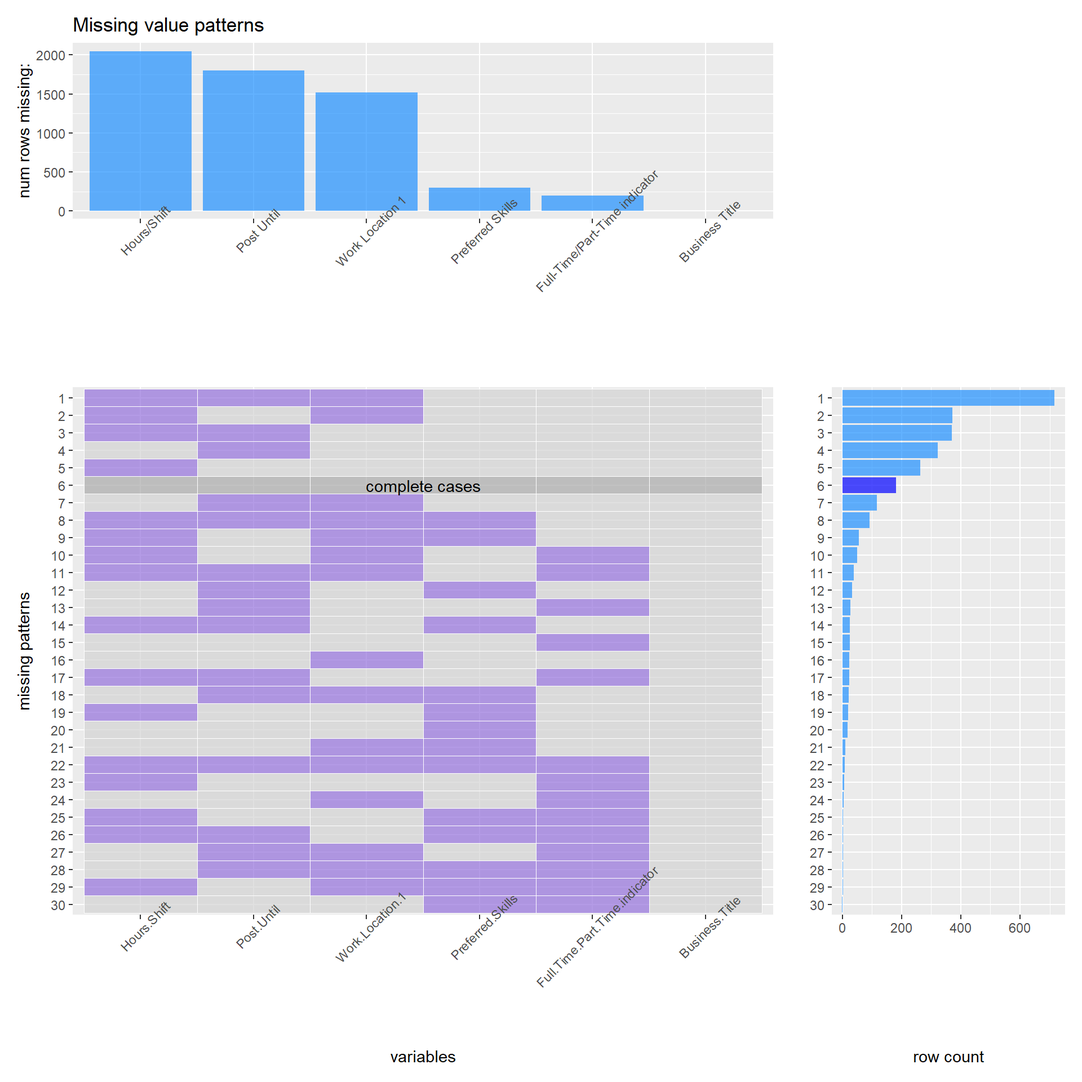
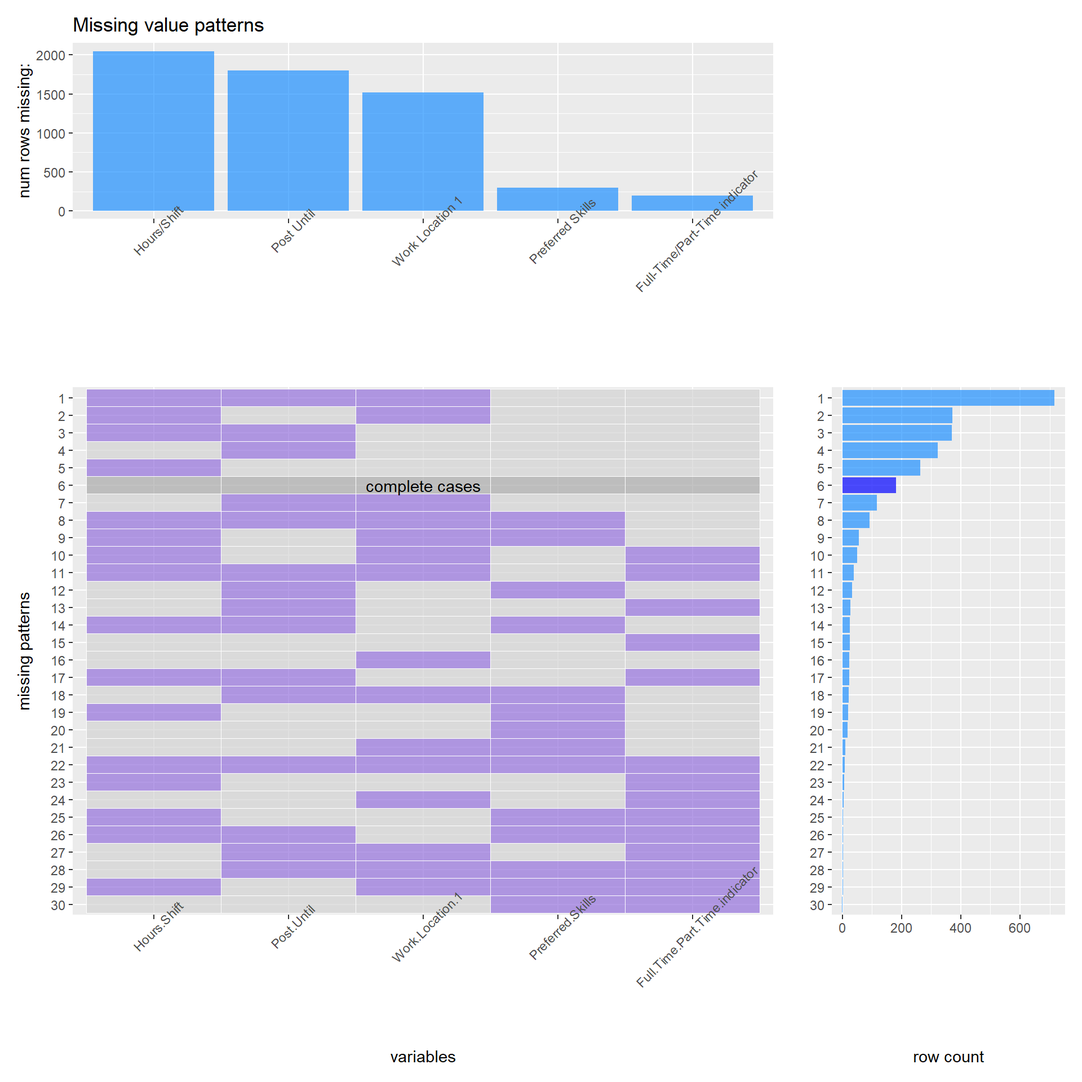
12/13 15:05

diff --git a/docs/results.html b/docs/results.html
@@ -24,7 +24,7 @@
 <meta name="author" content="Yunxiao Wang, Shangzhi Liu" />
 
 
-<meta name="date" content="2021-12-12" />
+<meta name="date" content="2021-12-13" />
 
   <meta name="viewport" content="width=device-width, initial-scale=1" />
   <meta name="apple-mobile-web-app-capable" content="yes" />
@@ -97,8 +97,7 @@
 <li class="chapter" data-level="6.1" data-path="interactive-component.html"><a href="interactive-component.html#d3-interactive-annual-salary-distribution"><i class="fa fa-check"></i><b>6.1</b> D3 interactive Annual Salary Distribution</a></li>
 <li class="chapter" data-level="6.2" data-path="interactive-component.html"><a href="interactive-component.html#prefered-skills-of-engineer"><i class="fa fa-check"></i><b>6.2</b> Prefered skills of Engineer</a></li>
 </ul></li>
-<li class="chapter" data-level="7" data-path="section.html"><a href="section.html"><i class="fa fa-check"></i><b>7</b> <iframe src="https://vizhub.com/wyx34/1f5e5085ddfd4881a6d6e271cca0afca?mode=embed" title="Annual Salary Visualization" height="650" width="800"></iframe></a></li>
-<li class="chapter" data-level="8" data-path="conclusion.html"><a href="conclusion.html"><i class="fa fa-check"></i><b>8</b> Conclusion</a></li>
+<li class="chapter" data-level="7" data-path="conclusion.html"><a href="conclusion.html"><i class="fa fa-check"></i><b>7</b> Conclusion</a></li>
 <li class="divider"></li>
 <li><a href="https://github.com/rstudio/bookdown" target="blank">Published with bookdown</a></li>
 </ul>
@@ -151,14 +150,22 @@
 <p><img src="finalproj_files/figure-html/fig3-1.png" width="960" /></p>
 <p>In this mosaic graph, it shows when career level changes from “entry-level” to “executive” (from low level to high level), the percent of high school diploma requirement become smaller and smaller, and the percent of master’s degree requirement become larger and larger. The percent of Doctorate requirement is very low for all of these career levels. Also, the percents of bachelor degree requirement and associate degree requirement are similar in career levels “entry-level”, “Experienced”, and “Manager”. But in career level “executive”, the percents of both degree requirement are almost 0, almost all degree requirements are from master’s degree and bachelor degree. Adding all these information together, we find higher career level cannot substitute for higher degree level, instead, when job postings’ career level become higher, their degree requirements also become higher and do not need people whose degree is low.</p>
 <p><img src="finalproj_files/figure-html/unnamed-chunk-22-1.png" width="672" /></p>
-<p>In this mosaic graph, we analyze the relationship between degree requirement and posting type &amp; residency requirement.
-1. For all job postings that do not require New York residency requirement: the degree requirement of external posting type is very similar to the degree requirement of internal posting type. The percent of bachelor degree requirement is more than 50% in both of these two posting type, which is the largest. The second largest percent of degree requirement is master’s degree, which is around 33%. The percent of Doctorate requirement is smallest.</p>
-<ol start="2" style="list-style-type: decimal">
-<li>For all job postings that requires New York residency requirement: The percents of Doctorate and master’s degree requirement are similar in both external and internal posting type. However, for job postings whose posting type is external, their percent of bachelor degree requirement is higher , and their percents of associate degree and high school diploma are smaller than those whose posting type is internal.</li>
+<p>In this mosaic graph, we analyze the relationship between degree requirement and posting type &amp; residency requirement.</p>
+<ol style="list-style-type: decimal">
+<li><p>For all job postings that do not require New York residency requirement: the degree requirement of external posting type is very similar to the degree requirement of internal posting type. The percent of bachelor degree requirement is more than 50% in both of these two posting type, which is the largest. The second largest percent of degree requirement is master’s degree, which is around 33%. The percent of Doctorate requirement is smallest.</p></li>
+<li><p>For all job postings that requires New York residency requirement: The percents of Doctorate and master’s degree requirement are similar in both external and internal posting type. However, for job postings whose posting type is external, their percent of bachelor degree requirement is higher , and their percents of associate degree and high school diploma are smaller than those whose posting type is internal.</p></li>
+<li><p>For all external job postings: we can find the percents of master’s degree and Doctorate degree requirement in “not required” are greater than those in “required”. This shows the external job postings that do not need New York residency have higher requirements for high-end degrees than external job postings that need New York residency.</p></li>
+<li><p>Similar for internal job postings, the internal job postings that do not need New York residency have higher requirements for high-end degrees than internal job postings that need New York residency.</p></li>
 </ol>
 </div>
 <div id="title-classification" class="section level2" number="5.5">
 <h2><span class="header-section-number">5.5</span> Title Classification</h2>
+<p>All NYC job positions have 4 job classes: competitive, non-competitive, exempt and labor.
+Competitive means these positions require examination.
+Exempt means competitive or non-competitive examinations or other qualification requirements are not practical.
+Labor Positions are positions is mainly engaged in unskilled manual labor, like cleaner and driver.
+Non-Competitive Positions are positions that are not in the exempt class or the labor class and examination has been determined to not be practicable.
+Is there any difference in salary between each class?</p>
 <p><img src="finalproj_files/figure-html/unnamed-chunk-24-1.png" width="672" /></p>
 <p>In this ridgeline plots of “salary range from”, one for each kind of “Title Classification”, it shows us how the number of job postings of each title classification changes with the lower bound of salary range. We can find that for job postings whose title classifications are “Competitive-1”, “Pending Classification-2”, “Exempt-4”, and “Non-competitive-5”, their low bound of salary range are concentrated around 50000 dollar. However, for job postings whose title classification is “Labor-3”, most of it low bound salary range is less than 50000 dollar.</p>
 </div>
@@ -167,7 +174,6 @@
 <p>Except the New York residency requirement, these job postings have another restriction variable “Posting Type” whose meaning is internal or external job posting. And the dataset claims that internal postings available to city employees and external postings available to the general public are included. To find more information about internal and external, we create a scatter plot to show the relationship between job category and this posting type.</p>
 <p><img src="finalproj_files/figure-html/unnamed-chunk-25-1.png" width="672" /></p>
 <p>In this graph, for each job category, we set some categories are more “external” if its number of external job postings is greater than the number of internal job postings times 0.8, some categories are more “internal” if its number of external job postings is less than the number of internal job postings times 0.6, and else categories are “neutral”.
-Reason:
 From the graph, we can find for job categories “Clerical”, “Social”, and “Administration”, these categories are more “internal”. For job categories “Information”, “Policy”, “Public”, “Legal”, and “Constituent Services”, they are more “external”. Other categories are “neutral”.</p>
 </div>
 <div id="word-cloud-for-preferred-skills" class="section level2" number="5.7">
@@ -176,6 +182,7 @@ From the graph, we can find for job categories “Clerical”, “Social”, and
 100 most frequent words.</p>
 <div id="htmlwidget-38373ad7f96e7472f621" style="width:672px;height:480px;" class="wordcloud2 html-widget"></div>
 <script type="application/json" data-for="htmlwidget-38373ad7f96e7472f621">{"x":{"word":["experience","skills","ability","knowledge","strong","excellent","management","communication","written","microsoft","data","excel","including","preferred","project","proficiency","writing","organizational","interpersonal","development","word","analytical","verbal","demonstrated","office","multiple","team","design","public","systems","york","familiarity","city","projects","computer","oral","related","environment","candidates","software","deadlines","research","manage","independently","information","detail","professional","service","complex","00c2","technical","candidate","analysis","time","effectively","powerpoint","business","field","system","required","planning","attention","ms","sql","degree","security","possess","issues","solving","people","applications","construction","services","understanding","tools","staff","license","proven","access","government","meet","financial","communications","reports","managing","policy","communicate","proficient","tasks","relationships"],"freq":[4720,4221,3212,1957,1953,1656,1616,1519,1195,1051,1042,916,900,826,793,739,735,727,698,686,684,673,667,663,663,662,651,631,625,582,574,569,565,555,538,536,534,523,522,505,497,481,477,464,460,459,458,457,450,448,446,442,432,426,414,409,397,396,386,378,367,361,361,360,359,356,354,352,348,344,338,338,336,335,332,322,318,317,315,309,301,293,288,288,284,282,271,271,269,265],"fontFamily":"Segoe UI","fontWeight":"bold","color":"random-dark","minSize":0,"weightFactor":0.076271186440678,"backgroundColor":"white","gridSize":0,"minRotation":-0.785398163397448,"maxRotation":0.785398163397448,"shuffle":true,"rotateRatio":0.4,"shape":"circle","ellipticity":0.65,"figBase64":null,"hover":null},"evals":[],"jsHooks":{"render":[{"code":"function(el,x){\n                        console.log(123);\n                        if(!iii){\n                          window.location.reload();\n                          iii = False;\n\n                        }\n  }","data":null}]}}</script>
+<p>There are many information we can extract from above wordcloud. For example, we can see that’Data’,‘Microsoft’,‘excel’ appear around 1000 times, and ‘team’,‘project’, ‘manage’ appear more than 500 times. This may indicate most employer expect the job seeker are familar with microsoft office and have basic data analysis ability. What’s more, experience with team project may also be a bonus for job seeker.</p>
 
 </div>
 </div>

diff --git a/docs/interactive-component.html b/docs/interactive-component.html
@@ -24,7 +24,7 @@
 <meta name="author" content="Yunxiao Wang, Shangzhi Liu" />
 
 
-<meta name="date" content="2021-12-12" />
+<meta name="date" content="2021-12-13" />
 
   <meta name="viewport" content="width=device-width, initial-scale=1" />
   <meta name="apple-mobile-web-app-capable" content="yes" />
@@ -32,7 +32,7 @@
   
   
 <link rel="prev" href="results.html"/>
-<link rel="next" href="section.html"/>
+<link rel="next" href="conclusion.html"/>
 <script src="libs/header-attrs-2.11/header-attrs.js"></script>
 <script src="libs/jquery-3.6.0/jquery-3.6.0.min.js"></script>
 <script src="https://cdn.jsdelivr.net/npm/fuse.js@6.4.6/dist/fuse.min.js"></script>
@@ -97,8 +97,7 @@
 <li class="chapter" data-level="6.1" data-path="interactive-component.html"><a href="interactive-component.html#d3-interactive-annual-salary-distribution"><i class="fa fa-check"></i><b>6.1</b> D3 interactive Annual Salary Distribution</a></li>
 <li class="chapter" data-level="6.2" data-path="interactive-component.html"><a href="interactive-component.html#prefered-skills-of-engineer"><i class="fa fa-check"></i><b>6.2</b> Prefered skills of Engineer</a></li>
 </ul></li>
-<li class="chapter" data-level="7" data-path="section.html"><a href="section.html"><i class="fa fa-check"></i><b>7</b> <iframe src="https://vizhub.com/wyx34/1f5e5085ddfd4881a6d6e271cca0afca?mode=embed" title="Annual Salary Visualization" height="650" width="800"></iframe></a></li>
-<li class="chapter" data-level="8" data-path="conclusion.html"><a href="conclusion.html"><i class="fa fa-check"></i><b>8</b> Conclusion</a></li>
+<li class="chapter" data-level="7" data-path="conclusion.html"><a href="conclusion.html"><i class="fa fa-check"></i><b>7</b> Conclusion</a></li>
 <li class="divider"></li>
 <li><a href="https://github.com/rstudio/bookdown" target="blank">Published with bookdown</a></li>
 </ul>
@@ -124,8 +123,8 @@
 <h2><span class="header-section-number">6.1</span> D3 interactive Annual Salary Distribution</h2>
 <p>Click the button at the bottom to select the job category or view all you are interested in.
 If you want to know the specific quantity, you can hover the mouse on each bar.</p>
-<p>The embed version may compress the y axis length.
-For Standalone version, Please click : <a href="Interactive-annual-salary.html">Interactive-annual-salary.html</a></p>
+<p>The embed version compress the y-axis length.
+To view original standalone version, Please click : <a href="Interactive-annual-salary.html">Interactive-annual-salary.html</a></p>
 <script src="https://d3js.org/d3.v6.min.js"></script>
 <iframe src="https://vizhub.com/wyx34/1f5e5085ddfd4881a6d6e271cca0afca?mode=embed" title="Annual Salary Visualization" height="650" width="800">
 </iframe>
@@ -150,10 +149,7 @@ If you want to know the specific quantity, you can hover the mouse on each word.
 ## # ... with 77 more rows</code></pre>
 <div id="htmlwidget-4fa42137bbd0349aaf24" style="width:672px;height:480px;" class="wordcloud2 html-widget"></div>
 <script type="application/json" data-for="htmlwidget-4fa42137bbd0349aaf24">{"x":{"word":["experience","ability","design","knowledge","construction","strong","management","communication","project","excellent","written","york","engineering","projects","candidates","preferred","software","microsoft","office","including","license","technical","excel","verbal","standards","writing","proficiency","planning","demonstrated","multiple","analysis","related","valid","time","organizational","autocad","contract","plans","development","word","candidate","field","applications","computer","effectively","drawings","public","systems","city","powerpoint","requirements","specifications","complex","suite","interpersonal","professional","familiarity","possess","proficient","reports","facilities","manage","practices","water","data","review","required","building","code","issues","deadlines","preference","urban","leadership","analytical","motor","staff","drivera","electrical","meet","structural","application","environment","operations","shop","site","team"],"freq":[640,403,358,306,262,256,241,231,204,200,175,162,152,150,146,139,138,133,132,128,123,121,120,119,117,110,105,102,100,100,99,97,96,92,91,88,88,84,82,81,80,80,79,79,78,75,73,73,72,72,72,72,71,71,70,70,68,68,68,65,64,63,63,63,62,62,61,60,60,60,59,59,58,57,56,54,54,51,51,51,50,49,49,47,47,47,47],"fontFamily":"Segoe UI","fontWeight":"bold","color":"random-dark","minSize":0,"weightFactor":0.5625,"backgroundColor":"white","gridSize":0,"minRotation":-0.785398163397448,"maxRotation":0.785398163397448,"shuffle":true,"rotateRatio":0.4,"shape":"circle","ellipticity":0.65,"figBase64":null,"hover":null},"evals":[],"jsHooks":{"render":[{"code":"function(el,x){\n                        console.log(123);\n                        if(!iii){\n                          window.location.reload();\n                          iii = False;\n\n                        }\n  }","data":null}]}}</script>
-<p>&lt;&lt;&lt;&lt;&lt;&lt;&lt; HEAD
-##</p>
-<p>Standalone version: <a href="Interactive-annual-salary.html">Interactive-annual-salary.html</a></p>
-<script src="https://d3js.org/d3.v6.min.js"></script>
+
 </div>
 </div>
             </section>
@@ -162,7 +158,7 @@ If you want to know the specific quantity, you can hover the mouse on each word.
         </div>
       </div>
 <a href="results.html" class="navigation navigation-prev " aria-label="Previous page"><i class="fa fa-angle-left"></i></a>
-<a href="section.html" class="navigation navigation-next " aria-label="Next page"><i class="fa fa-angle-right"></i></a>
+<a href="conclusion.html" class="navigation navigation-next " aria-label="Next page"><i class="fa fa-angle-right"></i></a>
     </div>
   </div>
 <script src="libs/gitbook-2.6.7/js/app.min.js"></script>

diff --git a/docs/index.html b/docs/index.html
@@ -24,7 +24,7 @@
 <meta name="author" content="Yunxiao Wang, Shangzhi Liu" />
 
 
-<meta name="date" content="2021-12-12" />
+<meta name="date" content="2021-12-13" />
 
   <meta name="viewport" content="width=device-width, initial-scale=1" />
   <meta name="apple-mobile-web-app-capable" content="yes" />
@@ -97,8 +97,7 @@
 <li class="chapter" data-level="6.1" data-path="interactive-component.html"><a href="interactive-component.html#d3-interactive-annual-salary-distribution"><i class="fa fa-check"></i><b>6.1</b> D3 interactive Annual Salary Distribution</a></li>
 <li class="chapter" data-level="6.2" data-path="interactive-component.html"><a href="interactive-component.html#prefered-skills-of-engineer"><i class="fa fa-check"></i><b>6.2</b> Prefered skills of Engineer</a></li>
 </ul></li>
-<li class="chapter" data-level="7" data-path="section.html"><a href="section.html"><i class="fa fa-check"></i><b>7</b> <iframe src="https://vizhub.com/wyx34/1f5e5085ddfd4881a6d6e271cca0afca?mode=embed" title="Annual Salary Visualization" height="650" width="800"></iframe></a></li>
-<li class="chapter" data-level="8" data-path="conclusion.html"><a href="conclusion.html"><i class="fa fa-check"></i><b>8</b> Conclusion</a></li>
+<li class="chapter" data-level="7" data-path="conclusion.html"><a href="conclusion.html"><i class="fa fa-check"></i><b>7</b> Conclusion</a></li>
 <li class="divider"></li>
 <li><a href="https://github.com/rstudio/bookdown" target="blank">Published with bookdown</a></li>
 </ul>
@@ -121,13 +120,13 @@
 <div id="header">
 <h1 class="title">NYC Job Analysis</h1>
 <p class="author"><em>Yunxiao Wang, Shangzhi Liu</em></p>
-<p class="date"><em>2021-12-12</em></p>
+<p class="date"><em>2021-12-13</em></p>
 </div>
 <div id="introduction" class="section level1" number="1">
 <h1><span class="header-section-number">Chapter 1</span> Introduction</h1>
 <p>This project is created by Yunxiao Wang and Shangzhi Liu in Final Project Group 39.</p>
 <p>As graduate students, besides finishing our studies, finding a suitable job is also one of the most important things for us. Especially in New York, a bustling international city, there are opportunities everywhere. Many companies have openings and are eager to hire competent people.</p>
-<p>However, although there are many job postings, it is always a problem for job seekers to find the most suitable job for them from all the information of these job postings. Therefore, our group chose the topic of job postings in New York City to help people better choose the jobs that suit them by summarizing the useful information and trend from these job postings, such as salary, location, and skills. What’s more, we also focus on some questions that graduate students also care about when they look for jobs, for example, what skills or requirements are needed to get a high salary job? What kind of job position is needed most in NYC? For people with fixed salary range expectation, what kind of jobs suit him and are in high demand?</p>
+<p>However, although there are many job postings, it is always a problem for job seekers to find what kind of jobs are suitable for them from all the information of these job postings, especially for those who feel confused and don’t have a specific direction of employment. Therefore, our group choose the topic of job postings in New York City to help people better choose the jobs that suit them and determine their work direction by summarizing the useful information and trend from these job postings, such as salary, categories, requirements, and skills. What’s more, we also focus on some questions that people also care about when they look for jobs, for example, what kind of job category or requirements are needed to get a high salary? What kind of job position is needed most in NYC? For people who have no direction but have specific requirements for the future salary range, what kind of jobs suit them and what requirements or skills should they need to possess in order to get this kind of jobs?</p>
 
 </div>
             </section>

diff --git a/docs/data-sources.html b/docs/data-sources.html
@@ -24,7 +24,7 @@
 <meta name="author" content="Yunxiao Wang, Shangzhi Liu" />
 
 
-<meta name="date" content="2021-12-12" />
+<meta name="date" content="2021-12-13" />
 
   <meta name="viewport" content="width=device-width, initial-scale=1" />
   <meta name="apple-mobile-web-app-capable" content="yes" />
@@ -97,8 +97,7 @@
 <li class="chapter" data-level="6.1" data-path="interactive-component.html"><a href="interactive-component.html#d3-interactive-annual-salary-distribution"><i class="fa fa-check"></i><b>6.1</b> D3 interactive Annual Salary Distribution</a></li>
 <li class="chapter" data-level="6.2" data-path="interactive-component.html"><a href="interactive-component.html#prefered-skills-of-engineer"><i class="fa fa-check"></i><b>6.2</b> Prefered skills of Engineer</a></li>
 </ul></li>
-<li class="chapter" data-level="7" data-path="section.html"><a href="section.html"><i class="fa fa-check"></i><b>7</b> <iframe src="https://vizhub.com/wyx34/1f5e5085ddfd4881a6d6e271cca0afca?mode=embed" title="Annual Salary Visualization" height="650" width="800"></iframe></a></li>
-<li class="chapter" data-level="8" data-path="conclusion.html"><a href="conclusion.html"><i class="fa fa-check"></i><b>8</b> Conclusion</a></li>
+<li class="chapter" data-level="7" data-path="conclusion.html"><a href="conclusion.html"><i class="fa fa-check"></i><b>7</b> Conclusion</a></li>
 <li class="divider"></li>
 <li><a href="https://github.com/rstudio/bookdown" target="blank">Published with bookdown</a></li>
 </ul>
@@ -121,8 +120,10 @@
 <div id="data-sources" class="section level1" number="2">
 <h1><span class="header-section-number">Chapter 2</span> Data sources</h1>
 <p>Our group collected the data together. It is from <a href="https://data.cityofnewyork.us/City-Government/NYC-Jobs/kpav-sd4t" class="uri">https://data.cityofnewyork.us/City-Government/NYC-Jobs/kpav-sd4t</a>.
-This dataset contains current job postings available on the City of New York’s official jobs site: <a href="http://www.nyc.gov/html/careers/html/search/search.shtml" class="uri">http://www.nyc.gov/html/careers/html/search/search.shtml</a>.</p>
-<p>This dataset has 2838 rows and 30 columns. Each row is a Job Posting from one company. Each column is one kind of information for each job posting.
+This dataset contains current job postings available on the City of New York’s official jobs site: <a href="http://www.nyc.gov/html/careers/html/search/search.shtml" class="uri">http://www.nyc.gov/html/careers/html/search/search.shtml</a>.
+Internal postings available to city employees and external postings available to the general public are included.</p>
+<p>The reason why we choose this dataset is that it is from the City of New York’s official website, which is very reliable, representative and updated. Therefore, it can show more useful information and trends about job postings in NYC.</p>
+<p>This dataset has 2838 rows and 30 columns. Each row is a Job Posting. Each column is one kind of information for each job posting.
 For these 30 variables:</p>
 <ol style="list-style-type: decimal">
 <li>Job ID (num): Job Opening ID.</li>
@@ -158,7 +159,7 @@ For these 30 variables:</p>
 <li>Posting Updated (chr): Last Modification Date.</li>
 <li>Process Date (chr): Dataset created date.</li>
 </ol>
-<p>The problem with this data is that there are some blank value.</p>
+<p>The problem with this data is that there are some blank value, and when we work with variable “Career Level”, although it shows the type of this variable is chr, when one of our group member work with this variable, it shows the type of this variable num and cannot read it. Thus, we create a new column to rename and store its value.</p>
 
 </div>
             </section>

diff --git a/docs/conclusion.html b/docs/conclusion.html
@@ -4,11 +4,11 @@
 
   <meta charset="utf-8" />
   <meta http-equiv="X-UA-Compatible" content="IE=edge" />
-  <title>Chapter 8 Conclusion | NYC Job Analysis</title>
-  <meta name="description" content="Chapter 8 Conclusion | NYC Job Analysis" />
+  <title>Chapter 7 Conclusion | NYC Job Analysis</title>
+  <meta name="description" content="Chapter 7 Conclusion | NYC Job Analysis" />
   <meta name="generator" content="bookdown 0.24 and GitBook 2.6.7" />
 
-  <meta property="og:title" content="Chapter 8 Conclusion | NYC Job Analysis" />
+  <meta property="og:title" content="Chapter 7 Conclusion | NYC Job Analysis" />
   <meta property="og:type" content="book" />
   
   
@@ -16,7 +16,7 @@
   
 
   <meta name="twitter:card" content="summary" />
-  <meta name="twitter:title" content="Chapter 8 Conclusion | NYC Job Analysis" />
+  <meta name="twitter:title" content="Chapter 7 Conclusion | NYC Job Analysis" />
   
   
   
@@ -24,14 +24,14 @@
 <meta name="author" content="Yunxiao Wang, Shangzhi Liu" />
 
 
-<meta name="date" content="2021-12-12" />
+<meta name="date" content="2021-12-13" />
 
   <meta name="viewport" content="width=device-width, initial-scale=1" />
   <meta name="apple-mobile-web-app-capable" content="yes" />
   <meta name="apple-mobile-web-app-status-bar-style" content="black" />
   
   
-<link rel="prev" href="section.html"/>
+<link rel="prev" href="interactive-component.html"/>
 
 <script src="libs/header-attrs-2.11/header-attrs.js"></script>
 <script src="libs/jquery-3.6.0/jquery-3.6.0.min.js"></script>
@@ -97,8 +97,7 @@
 <li class="chapter" data-level="6.1" data-path="interactive-component.html"><a href="interactive-component.html#d3-interactive-annual-salary-distribution"><i class="fa fa-check"></i><b>6.1</b> D3 interactive Annual Salary Distribution</a></li>
 <li class="chapter" data-level="6.2" data-path="interactive-component.html"><a href="interactive-component.html#prefered-skills-of-engineer"><i class="fa fa-check"></i><b>6.2</b> Prefered skills of Engineer</a></li>
 </ul></li>
-<li class="chapter" data-level="7" data-path="section.html"><a href="section.html"><i class="fa fa-check"></i><b>7</b> <iframe src="https://vizhub.com/wyx34/1f5e5085ddfd4881a6d6e271cca0afca?mode=embed" title="Annual Salary Visualization" height="650" width="800"></iframe></a></li>
-<li class="chapter" data-level="8" data-path="conclusion.html"><a href="conclusion.html"><i class="fa fa-check"></i><b>8</b> Conclusion</a></li>
+<li class="chapter" data-level="7" data-path="conclusion.html"><a href="conclusion.html"><i class="fa fa-check"></i><b>7</b> Conclusion</a></li>
 <li class="divider"></li>
 <li><a href="https://github.com/rstudio/bookdown" target="blank">Published with bookdown</a></li>
 </ul>
@@ -118,8 +117,8 @@
           <div class="page-inner">
 
             <section class="normal" id="section-">
-<div id="conclusion" class="section level1" number="8">
-<h1><span class="header-section-number">Chapter 8</span> Conclusion</h1>
+<div id="conclusion" class="section level1" number="7">
+<h1><span class="header-section-number">Chapter 7</span> Conclusion</h1>
 
 </div>
             </section>
@@ -127,7 +126,7 @@
           </div>
         </div>
       </div>
-<a href="section.html" class="navigation navigation-prev navigation-unique" aria-label="Previous page"><i class="fa fa-angle-left"></i></a>
+<a href="interactive-component.html" class="navigation navigation-prev navigation-unique" aria-label="Previous page"><i class="fa fa-angle-left"></i></a>
 
     </div>
   </div>

diff --git a/docs/missing-values.html b/docs/missing-values.html
@@ -24,7 +24,7 @@
 <meta name="author" content="Yunxiao Wang, Shangzhi Liu" />
 
 
-<meta name="date" content="2021-12-12" />
+<meta name="date" content="2021-12-13" />
 
   <meta name="viewport" content="width=device-width, initial-scale=1" />
   <meta name="apple-mobile-web-app-capable" content="yes" />
@@ -97,8 +97,7 @@
 <li class="chapter" data-level="6.1" data-path="interactive-component.html"><a href="interactive-component.html#d3-interactive-annual-salary-distribution"><i class="fa fa-check"></i><b>6.1</b> D3 interactive Annual Salary Distribution</a></li>
 <li class="chapter" data-level="6.2" data-path="interactive-component.html"><a href="interactive-component.html#prefered-skills-of-engineer"><i class="fa fa-check"></i><b>6.2</b> Prefered skills of Engineer</a></li>
 </ul></li>
-<li class="chapter" data-level="7" data-path="section.html"><a href="section.html"><i class="fa fa-check"></i><b>7</b> <iframe src="https://vizhub.com/wyx34/1f5e5085ddfd4881a6d6e271cca0afca?mode=embed" title="Annual Salary Visualization" height="650" width="800"></iframe></a></li>
-<li class="chapter" data-level="8" data-path="conclusion.html"><a href="conclusion.html"><i class="fa fa-check"></i><b>8</b> Conclusion</a></li>
+<li class="chapter" data-level="7" data-path="conclusion.html"><a href="conclusion.html"><i class="fa fa-check"></i><b>7</b> Conclusion</a></li>
 <li class="divider"></li>
 <li><a href="https://github.com/rstudio/bookdown" target="blank">Published with bookdown</a></li>
 </ul>
@@ -128,7 +127,6 @@
 ## Hours/Shift                   2050
 ## Post Until                    1803
 ## Work Location 1               1517
-## degreereq                      659
 ## Preferred Skills               294
 ## Full-Time/Part-Time indicator  198
 ## Minimum Qual Requirements       23
@@ -147,7 +145,7 @@
 ## Salary Range To                  0
 ## Salary Frequency                 0
 ## Work Location                    0</code></pre>
-<p>We can see that there are total 11 columns have missing values. We decide to ignore Minimum Qualify Requirement, Job Category, Career Level and Residency Requirement because they only have less than 1% missing values in 2838 records.</p>
+<p>We can see that there are total 10 columns have missing values. We decide to ignore Minimum Qualify Requirement, Job Category, Career Level and Residency Requirement because they only have less than 1% missing values in 2838 records.</p>
 <p>We choose 5 columns that have more than 1% missing values to draw the missing pattern graph</p>
 <p><img src="finalproj_files/figure-html/fig1-1.png" width="960" />
 From above plot we can observed that there are 30 different patterns. There are near 200 rows recorded as complete cases. The reason may be each job position is different. The most common pattern is missing of hours shift, Post Until and location.</p>

diff --git a/docs/404.html b/docs/404.html
@@ -24,7 +24,7 @@
 <meta name="author" content="Yunxiao Wang, Shangzhi Liu" />
 
 
-<meta name="date" content="2021-12-12" />
+<meta name="date" content="2021-12-13" />
 
   <meta name="viewport" content="width=device-width, initial-scale=1" />
   <meta name="apple-mobile-web-app-capable" content="yes" />
@@ -97,8 +97,7 @@
 <li class="chapter" data-level="6.1" data-path="interactive-component.html"><a href="interactive-component.html#d3-interactive-annual-salary-distribution"><i class="fa fa-check"></i><b>6.1</b> D3 interactive Annual Salary Distribution</a></li>
 <li class="chapter" data-level="6.2" data-path="interactive-component.html"><a href="interactive-component.html#prefered-skills-of-engineer"><i class="fa fa-check"></i><b>6.2</b> Prefered skills of Engineer</a></li>
 </ul></li>
-<li class="chapter" data-level="7" data-path="section.html"><a href="section.html"><i class="fa fa-check"></i><b>7</b> <iframe src="https://vizhub.com/wyx34/1f5e5085ddfd4881a6d6e271cca0afca?mode=embed" title="Annual Salary Visualization" height="650" width="800"></iframe></a></li>
-<li class="chapter" data-level="8" data-path="conclusion.html"><a href="conclusion.html"><i class="fa fa-check"></i><b>8</b> Conclusion</a></li>
+<li class="chapter" data-level="7" data-path="conclusion.html"><a href="conclusion.html"><i class="fa fa-check"></i><b>7</b> Conclusion</a></li>
 <li class="divider"></li>
 <li><a href="https://github.com/rstudio/bookdown" target="blank">Published with bookdown</a></li>
 </ul>

diff --git a/docs/data-transformation.html b/docs/data-transformation.html
@@ -24,7 +24,7 @@
 <meta name="author" content="Yunxiao Wang, Shangzhi Liu" />
 
 
-<meta name="date" content="2021-12-12" />
+<meta name="date" content="2021-12-13" />
 
   <meta name="viewport" content="width=device-width, initial-scale=1" />
   <meta name="apple-mobile-web-app-capable" content="yes" />
@@ -97,8 +97,7 @@
 <li class="chapter" data-level="6.1" data-path="interactive-component.html"><a href="interactive-component.html#d3-interactive-annual-salary-distribution"><i class="fa fa-check"></i><b>6.1</b> D3 interactive Annual Salary Distribution</a></li>
 <li class="chapter" data-level="6.2" data-path="interactive-component.html"><a href="interactive-component.html#prefered-skills-of-engineer"><i class="fa fa-check"></i><b>6.2</b> Prefered skills of Engineer</a></li>
 </ul></li>
-<li class="chapter" data-level="7" data-path="section.html"><a href="section.html"><i class="fa fa-check"></i><b>7</b> <iframe src="https://vizhub.com/wyx34/1f5e5085ddfd4881a6d6e271cca0afca?mode=embed" title="Annual Salary Visualization" height="650" width="800"></iframe></a></li>
-<li class="chapter" data-level="8" data-path="conclusion.html"><a href="conclusion.html"><i class="fa fa-check"></i><b>8</b> Conclusion</a></li>
+<li class="chapter" data-level="7" data-path="conclusion.html"><a href="conclusion.html"><i class="fa fa-check"></i><b>7</b> Conclusion</a></li>
 <li class="divider"></li>
 <li><a href="https://github.com/rstudio/bookdown" target="blank">Published with bookdown</a></li>
 </ul>
